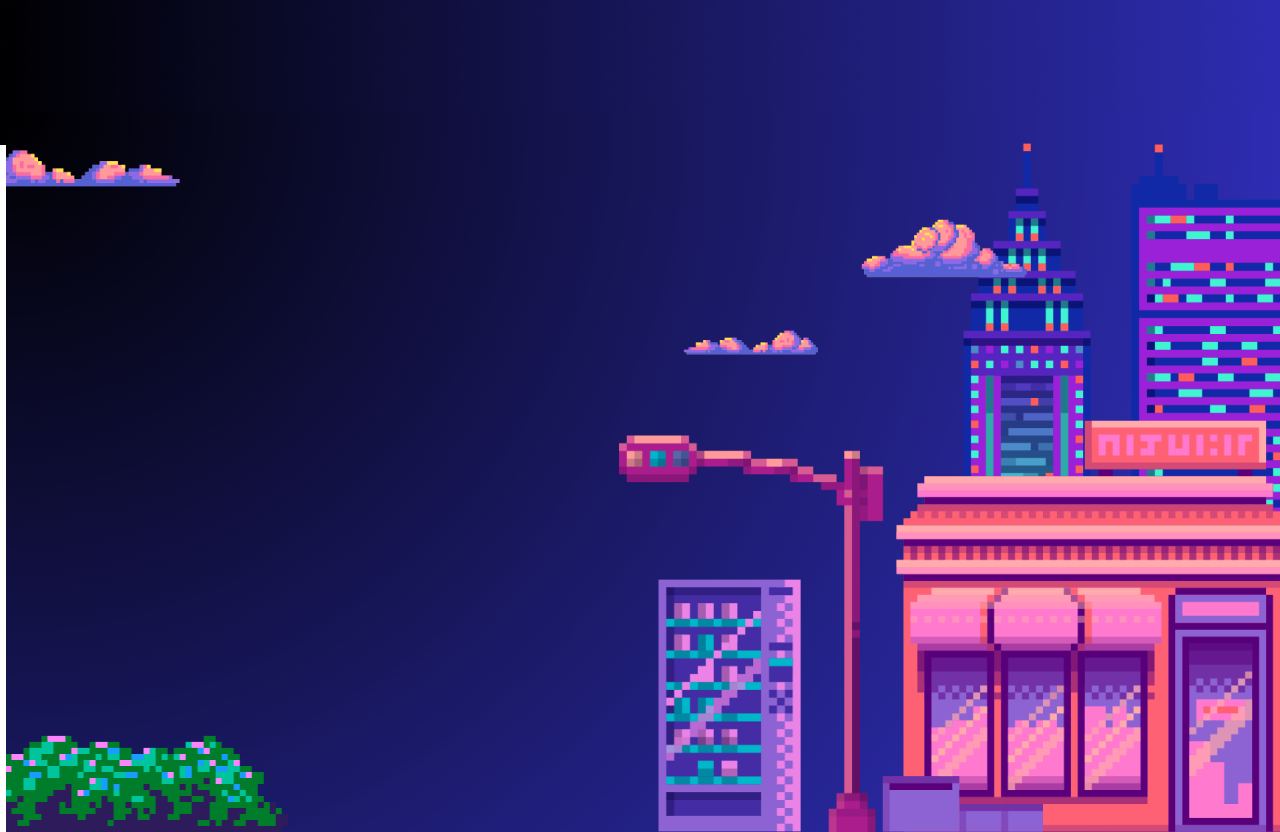
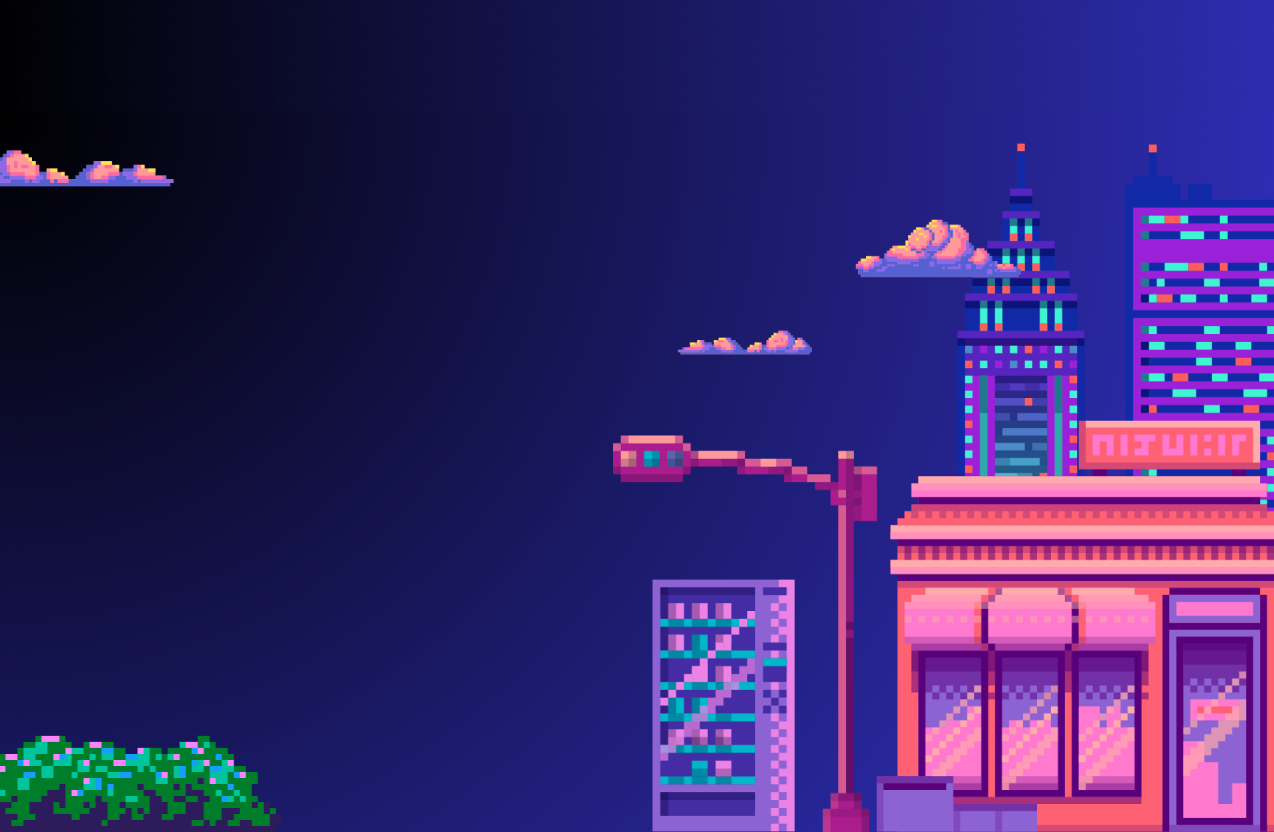
lo siento :')

diff --git a/css/paginaprincipal.css b/css/paginaprincipal.css
@@ -1,29 +1,3 @@
-h1 {
-    color: white;
-    font-size: 50px;
-    margin: 20px 0;
-    font-family: 'Press Start 2P', cursive; /* Aplica la fuente aquí */
-}
-
-.start-button {
-    background-color: #00ADD6;
-    font-family: 'Press Start 2P', cursive;
-    text-align: center;
-    border-radius: 10px;
-    font-size: 20px;
-    padding: 10px 20px;
-    color: white;
-}
-
-body::before {
-    content: "";
-    background: url('fondo1.png') no-repeat center center fixed;
-    background-size: cover;
-    position: absolute; /* Asegura que cubra toda la página */
-    top: 0;
-    left: 0;
-    right: 0;
-    bottom: 0;
-    z-index: -1;
-    opacity: 1.0;
+body {
+    background: url(/img/fondoSeleccion.png)no-repeat;
 }

diff --git a/html/menu.html b/html/menu.html
@@ -4,7 +4,7 @@
     <meta charset="UTF-8">
     <meta name="viewport" content="width=device-width, initial-scale=1.0">
     <title>Menu principal</title>
-    <link rel="stylesheet" href="menu.css">
+    <link rel="stylesheet" href="/css/menu.css">
     <link href="https://fonts.googleapis.com/css2?family=Press+Start+2P&display=swap" rel="stylesheet">
 </head>
 <body>
